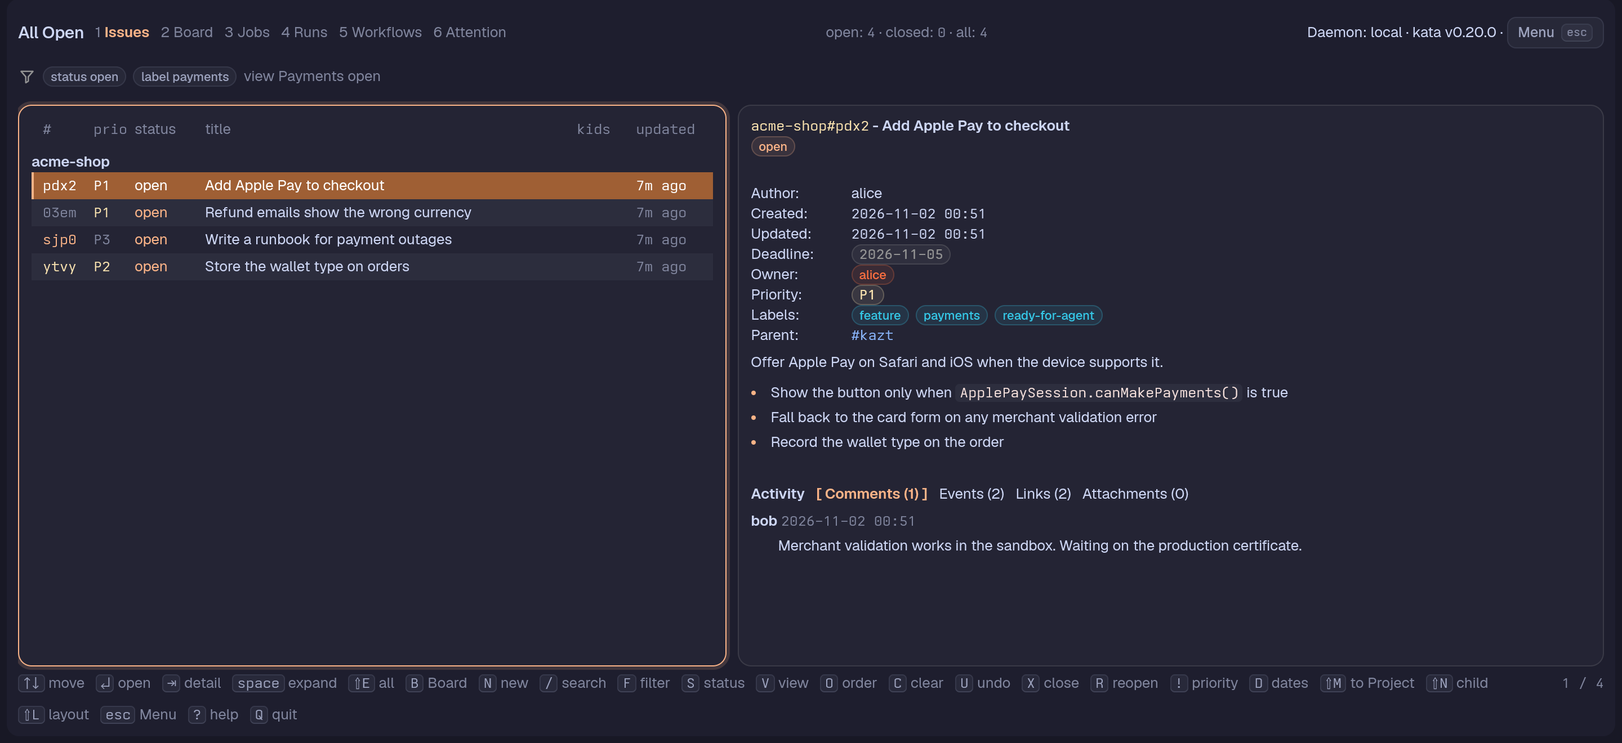
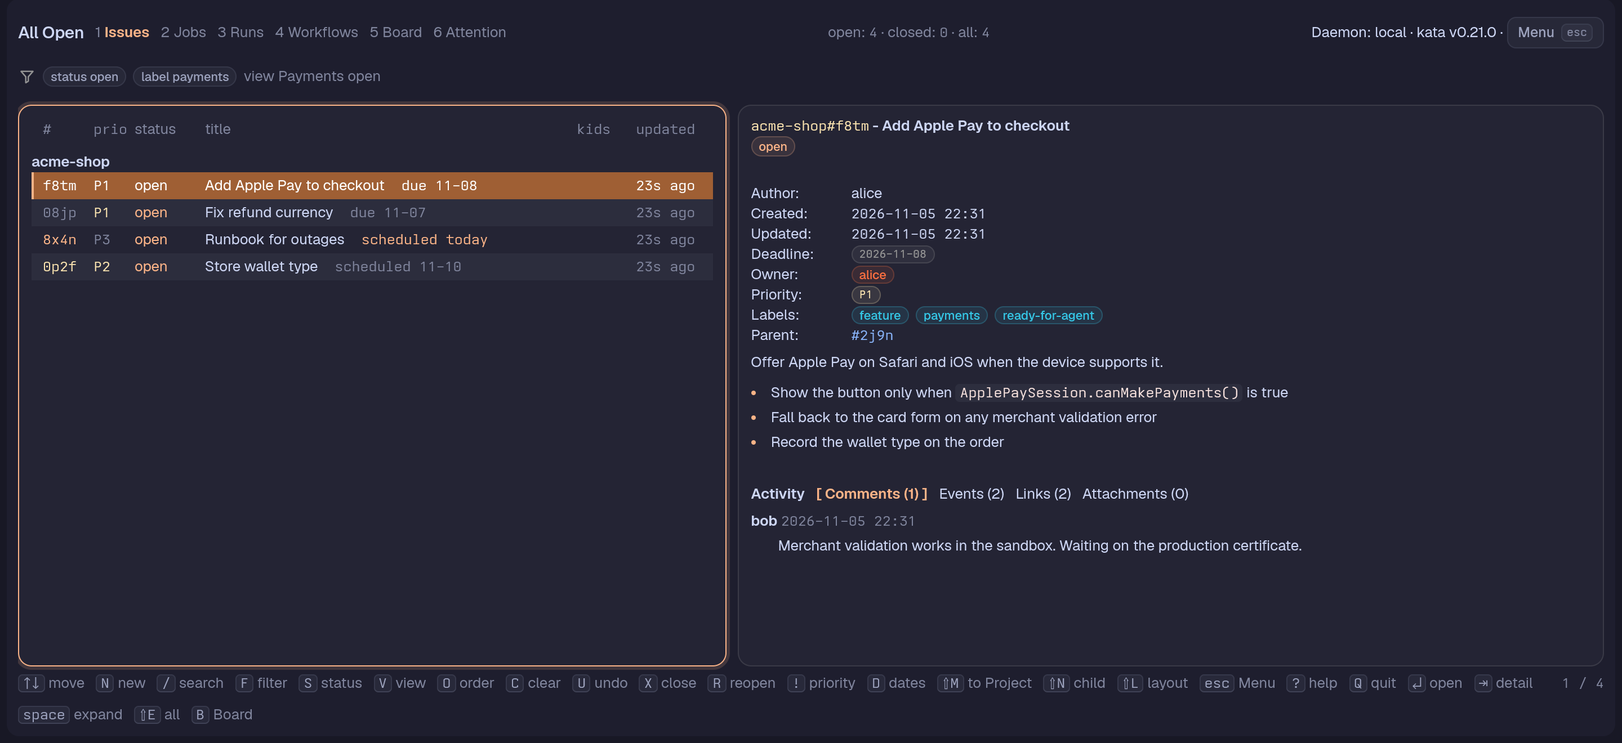
Docs for 0.8.0: screenshots re-rendered in dark-catppuccin with the new Page numbers and kata v0.21, guides and changelog brought up to date

diff --git a/internal/data/undo.go b/internal/data/undo.go
@@ -287,7 +287,7 @@ func moved(e model.UndoEntry, shown *g.ShowIssueResponseBody) string {
 		}
 	case model.UndoBody:
 		// The body text is what the undo overwrites; a write to another field moves the revision without touching it.
-		// shortcut: check-then-write, so a body edit landing between this check and the write is overwritten (kata v0.20's
+		// shortcut: check-then-write, so a body edit landing between this check and the write is overwritten (kata v0.21's
 		// edit-issue honours no If-Match); upgrade when it does.
 		if i.Body != e.After.Body {
 			return "issue body changed since the action"

diff --git a/README.md b/README.md
@@ -20,7 +20,7 @@ In tern-kata, Issue bodies render as Markdown, priorities and labels show as chi
 
 **Daemons.** `D` opens the Daemons Page, a Lettered Page (also in the Menu) that lists the daemons kata's `config.toml` names with kata tui's columns; Enter switches this Pane to one, starting a stopped local daemon first as kata tui does, and nothing is written to disk. The top bar names the current daemon and the account the daemon says you are; see [Pages and the Board](docs/guide/pages-and-board.md#lettered-pages).
 
-**Federation.** `F` opens the Federation Page, a Lettered Page (also in the Menu) that lists this daemon's spoke federations with hub, actor, push, pending, sync and badges, shows a Project's detail on Enter, reads again with `r` and leaves a federation with `x` (preview, hub revoke, result). `b` browses the Projects of the daemon catalog's hubs, and `n` enrolls a Project in a hub's federation (choose a local Project, a hub and a hub Project, preview, a typed confirmation for adopting, result; a failure after the hub granted it keeps a recovery whose `R` shows the `kata federation join …` command); see [Pages and the Board](docs/guide/pages-and-board.md#lettered-pages).
+**Federation.** `F` opens the Federation Page, a Lettered Page (also in the Menu) that lists this daemon's spoke federations with hub, actor, push, pending, sync and badges, shows a Project's detail on Enter, reads again with `r` leaves a federation with `x` (preview, hub revoke, result), and names a spoke with `N`. `b` browses the Projects of the daemon catalog's hubs, and `n` enrolls a Project in a hub's federation (choose a local Project, a hub and a hub Project, preview, a typed confirmation for adopting, result; a failure after the hub granted it keeps a recovery whose `R` shows the `kata federation join …` command); see [Pages and the Board](docs/guide/pages-and-board.md#lettered-pages).
 
 **Board.** `5` or `b` shows a Project's Issues as cards in Lanes, one per triage label. `<` and `>` move a card by swapping its label in kata, and a selected card tags its related cards; following one of another Project switches the Pane to that Project and Esc comes back. See [Pages and the Board](docs/guide/pages-and-board.md).
 
@@ -28,7 +28,7 @@ In tern-kata, Issue bodies render as Markdown, priorities and labels show as chi
 
 **Jobs and the Job card.** `2` lists a Project's Cron jobs with their state, schedule in words and next run. The Job card makes and edits every kind of job. See [Jobs](docs/guide/jobs.md).
 
-![The Jobs Page with a job selected and its inspector open](docs/images/jobs.png)
+![The Jobs Page with a job selected and its inspector open, listing its next runs](docs/images/jobs.png)
 
 ![The Job card editing an agent prompt job, with the schedule preview](docs/images/job-card.png)
 
@@ -46,15 +46,15 @@ In tern-kata, Issue bodies render as Markdown, priorities and labels show as chi
 
 **Attachments.** `@` uploads a screenshot, log or any other file to an Issue through kata, which keeps the bytes in Docbank; `enter` on one in the Attachments tab downloads it and opens it when it is an image, video, audio, PDF or text file, and agents use `kata docbank attachments`. It needs a `[docbank]` section in kata's config. See [Attachments](docs/guide/attachments.md).
 
-![The Attachments tab of "Add Apple Pay to checkout" listing a screenshot and a log](docs/images/attachments.png)
+![The Attachments tab of "Add Apple Pay to checkout" listing a screenshot and a log, each with its media type and size](docs/images/attachments.png)
 
 **Recurring Issues.** `O` opens the Recurrence card and `tern-kata recur` does the same from a shell. See [Recurring Issues](docs/guide/recur.md).
 
-**Dates card.** `d` sets an Issue's scheduled date and deadline, typed as a date, `today`, `tomorrow`, `+3d` or `+1w`. See [Dates](docs/guide/dates.md).
+**Dates card.** `d` sets an Issue's scheduled date and deadline, typed as a date, `today`, `tomorrow`, `+3d` or `+1w`, or with a time in kata's date-time forms. See [Dates](docs/guide/dates.md).
 
 ![The Dates card over the Board, with "+1w" typed in Scheduled and the date it resolves to below it](docs/images/dates-card.png)
 
-**Moving an Issue.** `M` opens the Move card on the selected Issue: pick a Project from a filtered list, preview the move (kata checks it and changes nothing), then move it, guarded on the revision the card opened with. A Notice links to the Issue in its new Project. See [Moving an Issue](docs/guide/pages-and-board.md#moving-an-issue).
+**Moving an Issue.** `M` opens the Move card on the selected Issue: pick a Project from a filtered list, preview the move (kata checks it and changes nothing), then move it, guarded on the revision the card opened with. The Issue moves with its open descendants; `o` (Only this Issue) moves it alone. A Notice links to the Issue in its new Project. See [Moving an Issue](docs/guide/pages-and-board.md#moving-an-issue).
 
 **Deleting and restoring an Issue.** `X` opens the Delete card on the selected Issue: type its `project#id` to confirm, add a reason if you like, and kata deletes it (soft: it keeps the Issue and its history). `u` right after restores it, and the Menu's "Restore a deleted Issue" brings back an earlier one by short id, `project#id` or ULID. See [Deleting and restoring an Issue](docs/guide/pages-and-board.md#deleting-and-restoring-an-issue).
 
@@ -90,7 +90,7 @@ Agents: follow these steps only when the user has asked you to install tern-kata
    In a repo with a `.kata.toml`, write kata ticket references in chat replies as `[<id>](https://kata.invalid/<project>/<id>)`, with `<project>` the name in `.kata.toml`. The tern-kata window plugin opens them in tern-kata; Tern draws `kata://` links in chat as plain text. Everywhere else (files, commit messages, kata Issue text) write the bare id; those links only work inside Tern.
    ```
 
-6. Ask the user whether to install the agent skills (`kata`, and `tern-kata` for attachments, recurrence and the worker). Run `npx skills add Dangerboi/tern-kata -g` only if they agree; it needs Node.js, and with only Bun installed `bunx` replaces `npx`.
+6. Ask the user whether to install the agent skills (`kata`, and `tern-kata` for recurring Issues, saved views and the worker). Run `npx skills add Dangerboi/tern-kata -g` only if they agree; it needs Node.js, and with only Bun installed `bunx` replaces `npx`.
 
 ## Install
 

diff --git a/CHANGELOG.md b/CHANGELOG.md
@@ -6,20 +6,20 @@ All notable changes to tern-kata are listed here. The format follows [Keep a Cha
 
 ### Added
 
-- `m` on the Attention Page sends a message to the omp agent that raised the selected request. It reaches the agent at once, through an omp extension tern-kata loads into every omp agent it starts: a waiting or idle agent starts a turn on it, a working one gets it at its next step without its work being stopped, and a pending `ask` or tool approval stays until you answer it. Each omp agent has its own Agent address, `<actor>/<name>-<block id>`, set as its `KATA_INBOX_USER`, so no other agent reads its messages; only messages from you are delivered, and the agent's first message tells it to act only on those. The card asks before replacing a message the agent has not cleared, and says why when the agent cannot receive one (exited or not omp). When an agent exits, the Pane clears what is left at its address. Agents that load the extension run with `KATA_OMP_LIVE_INBOX=0`, so kata-omp leaves live delivery to it.
+- `m` on the Attention Page sends a message to the omp agent that raised the selected request. It reaches the agent at once, through an omp extension tern-kata loads into every omp agent it starts: a waiting or idle agent starts a turn on it, a working one gets it at its next step without its work being stopped, and a pending `ask` or tool approval stays until you answer it. Each omp agent has its own Agent address, `<actor>/<name>-<block id>`, set as its `KATA_INBOX_USER`, so no other agent reads its messages; only messages from you are delivered, and the agent's first message tells it to act only on those. The card asks before replacing a message the agent has not cleared, and says why when the agent cannot receive one (exited, not omp, or started by an older tern-kata before messages could reach it). When an agent exits, the Pane clears what is left at its address. Agents that load the extension run with `KATA_OMP_LIVE_INBOX=0`, so kata-omp leaves live delivery to it.
 - `tern-kata worker status` names the installed binary's version when the running worker runs another one, and says how `tern-kata worker stop` moves it there.
 - `/` on the Jobs, Runs and Workflows Pages searches their rows by a case-insensitive part of the row's text, as kata tui does. The search shows above the list, `esc` ends it, and an empty result says so.
 - The Jobs Page inspector lists a job's next three runs with their time zone abbreviations, and says why there are none when the job is paused, its parent is closed, it only runs when started, or its runs can't be worked out.
 - Issue list rows show the Date badge of an open Issue with a scheduled date or deadline, after the title, as kata tui does; a row that can't fit its whole title and the badge drops the badge.
 - The Dates card and the Create card take kata's date-time forms, `YYYY-MM-DDTHH:MM[:SS]` and `YYYY-MM-DDTHH:MM:SSZ`; the preview shows the time.
 - `N` on the Federation Page names a spoke: on the enrollment preview it sets the name the hub records with the enrollment, and on a spoke, in the list or its detail, it renames it on the hub, where an empty name clears it. The name shows on the spoke's card and detail. The card refuses a name that breaks kata's rule in kata's words before anything reaches the hub, and shows the hub's reason when it refuses a name another spoke holds.
-- The Close card for a `done` close can cite one or more of the Issue's Attachments as evidence; the Events tab names a cited Attachment, and marks it `[removed]` once it is unlinked.
+- The Close card for a `done` close can cite one or more of the Issue's Attachments as evidence; the Events tab names a cited Attachment, and marks it `[removed]` once it is unlinked and `[changed]` when the Issue now holds another version of it.
 - `tern-kata migrate-attachments` moves the old attachments stored on this machine to Docbank, deletes the local copies, and lists the ones held on other machines. It leaves a file, an Issue folder or the store that is a symlink, and lists it with its reason, so it never uploads what a link points to.
 - A `kata close` run by an omp agent the Pane started, or by a worker run whose profile `command` is omp, names that agent's omp session, so with `[close.transcript]` enabled in kata's config the close records the session and, with `agentsview_url`, a link to it in AgentsView. Worker runs now load tern-kata's omp extension for this, also under `--no-extensions`.
 
 ### Changed
 
-- **Breaking:** tern-kata requires kata v0.21.0 or newer. kata v0.21 upgrades its database to schema 43 on first start, which older kata binaries cannot open; kata keeps a backup of the database from before the upgrade.
+- **Breaking:** tern-kata requires kata v0.21.0 or newer. kata v0.21 upgrades its database to schema 43 on first start, which older kata binaries cannot open; kata keeps a backup of the database from before the upgrade. A PostgreSQL store needs `kata storage postgres migrate` with the daemon stopped.
 - The Pages are numbered as in kata tui: `1` Issues, `2` Jobs, `3` Runs, `4` Workflows, `5` Board and `6` Attention. `b` still toggles the Board and `T` still opens Attention.
 - The Move card moves an Issue with its open descendants, as kata does. The preview names the Issues that move, the **Only this Issue** switch (`o`, or a click) moves the Issue alone, and the Notice says how many Issues moved. When kata refuses because of a descendant (archived, or held back for another reason), the card names it and keeps **Only this Issue** within reach; a subtree that changed during the move shows in words too.
 - The Comments tab shows a discussion as a reply tree: replies nest under the comment they answer, four levels deep at most, a reply from another Issue is a line under its target, and confirm and refute show as tags, reading "(before edit)" when the evidence predates an edit of the comment.

diff --git a/docs/guide/pages-and-board.md b/docs/guide/pages-and-board.md
@@ -57,7 +57,7 @@ The secret goes from kata's answer into the token file, which is created new and
 
 `x` on a token opens "Revoke token <id> (<name>, <actor>)? This cannot be undone."; `y` revokes it and `n` or `esc` keeps it. A token already revoked is not asked about. After a create or a revoke the list is read again.
 
-`D` opens the **Daemons Page**: the daemons named in kata's `config.toml` (`[[daemon]]` entries, read from `$KATA_HOME`, else `~/.kata`), under "N daemons", one row each with kata tui's columns: the daemon, its endpoint ("local" for a local entry, else the url's host), "token" or "no token", and "current" on the daemon this Pane talks to. Under the list the selected daemon's `name · endpoint`, with `· allow_insecure` when the entry sets it. `j`/`k` move the cursor, and it starts on the current daemon. Enter switches this Pane to the selected daemon and leaves the Page: the Pane starts over on it with an empty Collection, no Page, cache, filter or undo history of the old daemon ("nothing to undo: connected to a different daemon"), and follows the new daemon's events. Your workspace's Project is bound again when the new daemon has one by that name, else the Pane starts on the Inbox. A switch changes this Pane only and writes nothing to disk, so other Panes and the CLI stay where they were. A local entry whose daemon is stopped is started first, as in kata tui: `kata daemon start` with `KATA_HOME` set to the entry's `home` (a profile), or in the current home for an entry without one, started by kata's client with tern-kata's own environment, so a `KATA_DSN`, `KATA_DB` or `KATA_SERVER` set for the Pane reaches the started daemon; this is the one case in which tern-kata starts a daemon. A switch that fails shows `daemon "<name>": <reason>` and keeps the current connection. With no `[[daemon]]` entry the Page says "no named daemons" and names the file to add one to. The top bar names the current daemon by its catalog name and, when the daemon says who you are, the account: "Daemon: work · remote · kata v0.21.0 · as alice".
+`D` opens the **Daemons Page**: the daemons named in kata's `config.toml` (`[[daemon]]` entries, read from `$KATA_HOME`, else `~/.kata`), under "N daemons", one row each with kata tui's columns: the daemon, its endpoint ("local" for a local entry, else the url's host), "token" or "no token", and "current" on the daemon this Pane talks to. Under the list the selected daemon's `name · endpoint`, with `· allow_insecure` when the entry sets it. `j`/`k` move the cursor, and it starts on the current daemon. Enter switches this Pane to the selected daemon and leaves the Page: the Pane starts over on it with an empty Collection, no Page, cache, filter or undo history of the old daemon ("nothing to undo: connected to a different daemon"), and follows the new daemon's events. Your workspace's Project is bound again when the new daemon has one by that name, else the Pane starts on the Inbox. A switch changes this Pane only and writes nothing to disk, so other Panes and the CLI stay where they were. A local entry whose daemon is stopped is started first, as in kata tui: kata's client runs `kata --daemon <name> daemon recover` for an entry with a `home` (a profile; it never creates storage), and `kata daemon start` for any other local entry, with the Pane's own environment, so a `KATA_DSN`, `KATA_DB` or `KATA_SERVER` set for the Pane reaches the started daemon; with no `kata` on `PATH` the stopped daemon is reported, not started, and a remote entry is never started; this is the one case in which tern-kata starts a daemon. A switch that fails shows `daemon "<name>": <reason>` and keeps the current connection. With no `[[daemon]]` entry the Page says "no named daemons" and names the file to add one to. The top bar names the current daemon by its catalog name and, when the daemon says who you are, the account: "Daemon: work · remote · kata v0.21.0 · as alice".
 
 `F` opens the **Federation Page**: this daemon's spoke federations, the Projects that replicate a Project on a hub. A header reads "Federation for active daemon: <name> <endpoint> instance <uid> auth <auth>", then "N spoke federations" and one card per Project in two lines: the Project (with "Name <spoke name>" after it when the hub gives this daemon a name), its hub host and actor, then push ("push" or "off"), pending pushes, last sync ("never", "error", or "5m ago") and badges (`insecure`, `quarantine`, `reset`, `violations`, or "-"). Under the list the selected Project's `hub <URL>/project <id> · actor <actor> · credential <status>`. `j`/`k` move the cursor and Enter shows the Project's detail: the spoke name ("-" when there is none), hub URL, hub Project id and uid, actor, capabilities (`pull`, `push`, `lease`), push enabled, credential, `allow_insecure`, the pull and push cursors, pending push and its high water, pending and live claims, each quarantine, the reset blocker, claim violations, and the last pull, push and sync success and last error in UTC. Esc or backspace leaves the detail, then the Page; `r` reads the status again from the list or a detail. It shows "loading federation status...", "no spoke federation enrollments" and "failed to load federation: <error>" in kata tui's words, a failed read replacing the list until the next read.
 

diff --git a/docs/guide/attachments.md b/docs/guide/attachments.md
@@ -2,14 +2,14 @@
 
 Attach a screenshot, log or any other file to an Issue so whoever picks it up sees what you saw. kata stores the file: its bytes go to Docbank and the Issue keeps a reference to them, so every agent and person who can read the Issue can download the file, from any machine.
 
-![The Attachments tab of "Add Apple Pay to checkout" listing a screenshot and a log](../images/attachments.png)
+![The Attachments tab of "Add Apple Pay to checkout" listing a screenshot and a log, each with its media type and size](../images/attachments.png)
 
 This needs kata v0.21 and a daemon with Docbank configured (see [Setting Docbank up](#setting-docbank-up)). Without it the Pane says so plainly and nothing can be attached.
 
 ## In a Pane
 
 - `@` on the selected Issue (in the list, on the Board, in the Lane view or in the Issue detail) asks for a path, quoted, starting with `~` or relative to the directory, and uploads the file under its own name. A refusal or a failure shows in the form. A file may be up to 256 MiB.
-- `U` lists the Issue's Attachments by name: `down` and `up` move and `enter` unlinks the one chosen, with no further confirmation. Unlinking removes the Issue's reference only; the bytes stay in Docbank, because kata has no call that deletes them. Two Attachments with one name show with the last characters of their ids to tell them apart. `U` on an Issue with none says so.
+- `U` lists the Issue's Attachments by name: `down` and `up` move and `enter` unlinks the one chosen, with no further confirmation. You can also type an attachment's name in full. Unlinking removes the Issue's reference only; the bytes stay in Docbank, because kata has no call that deletes them. Two Attachments with one name show with the last characters of their ids to tell them apart. `U` on an Issue with none says so.
 - The Attachments tab of the Issue detail lists the Issue's Attachments with their name, media type and size. `enter` on one downloads it into a cache folder and, if it is an image, video, audio, PDF or text file by its name, opens it with the program your OS has for that type; the next `enter` reuses the download. tern-kata opens images (`.png`, `.jpg`, `.jpeg`, `.gif`, `.webp`, `.bmp`, `.heic`, `.tif`, `.tiff`), video (`.mp4`, `.mov`, `.webm`, `.mkv`, `.avi`, `.m4v`), audio (`.mp3`, `.wav`, `.ogg`, `.flac`, `.m4a`), `.pdf` and plain text (`.txt`, `.md`, `.log`, `.csv`, `.json`), in any letter case, judged by the name exactly as stored: `report.bat.` or `x.png ` do not count. Any other file is only saved, never opened, because what the OS does with a file it knows (run it, follow a link inside it) cannot be told from its name and anyone who can write the Project can name an Attachment `report.bat`. The Pane then says where it is saved and that tern-kata opens only images, video, audio, PDFs and text: "Cannot open report.bat: saved at <path> and not opened: tern-kata opens only images, video, audio, PDFs and text". Open such a file yourself if you trust it. The download never gets an execute permission.
 
 ## Citing an attachment when closing
@@ -82,7 +82,9 @@ The command prints what moved, and lists what it left with the reason:
 
 - a key whose `host` is another machine: run the command there;
 - a file that is gone from this machine;
-- a file outside the Issue's folder in `.kata-attachments`, which is never deleted: add it with `kata docbank attachments add` and clear the key yourself (`kata meta unset <ref> <key>`, with `<key>` the key the list names);
+- a file outside the Issue's folder in `.kata-attachments`, which is never deleted: add it with `kata docbank attachments add` and clear the key yourself (`kata meta unset <ref> <key>`, with `<key>` the key the list names). A file, Issue folder or store folder that is a symlink counts as outside, so the link's target is never uploaded, with the reason "outside this Project's old attachment folder";
+- a `tern-kata.attachment.*` key whose value is not a `{host, path}` pointer, so it is not an old attachment;
+- a file refused before upload, for its size or type, with the reason shown. The command then exits non-zero;
 - an upload or key change that failed, with kata's reason. The command then exits non-zero;
 - a file moved whose local copy could not be deleted: the key is already cleared, so delete the file by hand. The command then exits non-zero.
 

diff --git a/docs/guide/kata-tui.md b/docs/guide/kata-tui.md
@@ -76,7 +76,7 @@ The Close card for a `done` close can cite one or more of the Issue's Attachment
 
 `u` in the list, on the Board, in the Lane view and in the Issue detail takes back the newest change this Pane made, as in kata tui. The Pane remembers the last 20 completed changes, across Issues, and undoes the newest first. It undoes a close (reopens), a reopen (closes as done, opening the Close card first when kata requires evidence), an owner or priority change, a label added or removed, a body edit, a link added (the link is removed, found by type and its two ends), a Lane Move (its label changes reversed), a Dates card change (both dates put back, each guarded on the value the change wrote) and a delete (the Issue is restored; "already restored" when kata no longer holds it as deleted).
 
-Before it writes, `u` checks, with kata tui's words, that it is still the same daemon and account ("daemon instance changed", "daemon principal changed"), the same Issue ("issue identity changed") and that nobody changed the Issue since: the revision the change produced for owner, priority and link ("issue owner changed since the action" and the like), the body text the change wrote for a body edit ("issue body changed since the action"; kata v0.20 takes no revision precondition on an edit, so a body edit landing in the instant between this check and the write is overwritten), the label state for a label added or removed (a label someone else changed reads "already restored"), the dates the change wrote for a Dates card change ("issue dates changed since the action"). A refusal drops that change and says so; the one after it can still be undone. An Issue already as the undo would leave it reads "already restored". A second `u` while one is out says "undo already in progress".
+Before it writes, `u` checks, with kata tui's words, that it is still the same daemon and account ("daemon instance changed", "daemon principal changed"), the same Issue ("issue identity changed") and that nobody changed the Issue since: the revision the change produced for owner, priority and link ("issue owner changed since the action" and the like), the body text the change wrote for a body edit ("issue body changed since the action"; kata v0.21 takes no revision precondition on an edit, so a body edit landing in the instant between this check and the write is overwritten), the label state for a label added or removed (a label someone else changed reads "already restored"), the dates the change wrote for a Dates card change ("issue dates changed since the action"). A refusal drops that change and says so; the one after it can still be undone. An Issue already as the undo would leave it reads "already restored". A second `u` while one is out says "undo already in progress".
 
 Every other change to an Issue clears the history, and the next `u` says "nothing to undo: <reason>": creating an Issue, a comment or Reply, a timed assignment, a Recurrence change or stop, attaching or unlinking a file, and every Cron job or Workflow change. A change whose outcome is unknown (a timeout) clears it too. `u` never undoes an older change across one of these.
 

diff --git a/docs/guide/worker.md b/docs/guide/worker.md
@@ -104,7 +104,7 @@ capacity  = 3
 checkouts = ["acme-infra"]
 ```
 
-Each `[[projects]]` block lists its own checkout only, so a job in `acme-shop` cannot name the `acme-infra` directory. Every key is described in the [worker reference](worker-reference.md#workertoml).
+Each `[[projects]]` block lists its own checkout only, so a job in `acme-shop` cannot name the `acme-infra` directory. A profile without an `extensions` key runs omp with `--no-extensions`; see the [`extensions` row of the worker reference](worker-reference.md#workertoml). Every key is described there too.
 
 ## Restarting and stopping
 
@@ -124,7 +124,7 @@ The host half doesn't read the config folder itself: while no worker of its own 
 - **Restarts.** It starts the worker again whenever it exits, after 1 second, then 2, 4 and so on up to a minute between tries. A worker that stayed up for a minute starts the count over.
 - **When it starts.** When Tern's daemon starts, which a window does on demand and Tern's "Start at login" setting does at login. Nothing starts the daemon at boot or after a quit by itself: with Tern not running, no worker runs.
 - **Finding the program.** The host half finds `tern-kata` on the daemon's `PATH` or in the folder the install scripts use (`~/.local/bin`, `%LOCALAPPDATA%\Programs\tern-kata`, `$TERN_KATA_INSTALL_DIR`). It gives the worker the daemon's `PATH` plus those folders, Tern's bundled omp, `~/go/bin` and Homebrew's, so `omp` resolves even when Tern was started from a launcher with a short `PATH`.
-- **Logs.** Its log lines (`tern-kata: worker started`, `the worker exited with status ...`) are in Tern's daemon log. `tern-kata worker status` says whether Tern supervises the worker or you started it by hand, and names the installed binary's version when the worker runs another one.
+- **Logs.** Its log lines (`tern-kata: worker started`, `the worker exited with status ...`) are in Tern's daemon log. `tern-kata worker status` says whether Tern supervises the worker or you started it by hand, and names the installed binary's version when the worker runs another one; for a supervised worker it adds that `tern-kata worker stop` moves it to the installed version.
 
 A worker the host half did not start is left running, and the host half starts one within 10 seconds of its end. This happens after a plugin reload (`tern plugin reload`, an install or update of the plugin, any change in a checkout linked with `tern plugin link`) or a Tern update loads the host half again while the worker runs on, after a daemon restart (Tern does not stop its children), and with a worker you started by hand. The host half logs one line naming that worker (`tern-kata: worker 1234 (tern-kata v0.7.2, started by Tern) is already running, so the plugin starts none until it exits`) and starts none of its own while it runs.
 

diff --git a/docs/guide/agents.md b/docs/guide/agents.md
@@ -35,7 +35,7 @@ An unknown key, a relative `checkout` or an empty `command` refuses the start an
 
 ### How the agent runs
 
-The agent always runs through `tern-kata agent [--as <actor>] [--address-prefix <actor>/<name>] --ref <qualified ref> --`. The wrapper:
+The agent always runs through `tern-kata agent [--as <actor>] [--address-prefix <actor>/<name>] --ref <qualified ref> --`. For a daemon other than the default one, the Pane also passes the route flags it needs to reach that daemon: `--home`, `--db`, `--schema`, `--dsn-file`, `--env-file`, `--daemon`, `--server`, `--token-file`, `--auth-file`, `--allow-insecure` and `--trust-private-network`, each only when it has a value. No flag holds a secret: a token or DSN goes through a private file the wrapper reads and deletes. The wrapper:
 
 - sets `KATA_REF` to the Issue, so kata-plugin's todo plan hangs under it, and drops an inherited `KATA_REF` and `KATA_INBOX_USER` (your own inbox is not the agent's);
 - sets `KATA_AUTHOR` when there is an `actor`, and otherwise leaves `KATA_AUTHOR` as inherited;

diff --git a/docs/guide/runs.md b/docs/guide/runs.md
@@ -26,7 +26,7 @@ Each card has:
 | `i` | Open the run's Issue on the Issues Page, from the list or the detail (a run with no Issue leaves a Notice) |
 | `f` | Narrow the list to the selected run's job, or show every run again |
 | `m` | Read the next older 100 runs |
-| `/` | Search the loaded runs: type to keep the runs whose status, name, Issue, executor, start, reason or summary holds the text (case-insensitive); Enter keeps the search and returns to the list, Esc ends it and brings every run back. An empty result says so under the search |
+| `/` | Search the loaded runs: type to keep the runs whose status, name, Issue, executor, start, duration, reason, hold or summary holds the text (case-insensitive); Enter keeps the search and returns to the list, Esc ends it and brings every run back. An empty result says so under the search |
 | `ctrl+r` | Read the newest page again |
 | `o` | Open the omp session of a finished or held run of this machine in a new Tern tab |
 | `u` | Resume the selected held run through the worker |

diff --git a/docs/guide/faq.md b/docs/guide/faq.md
@@ -18,6 +18,10 @@ Inbox beside the Menu sidebar. A directory is bound to a Project when it, or a p
 
 Those Pages act on the Pane's Project: the current Project Collection, else the workspace's Binding. With neither, the Page says so and opens the Menu's Projects list. See [The Page bar](pages-and-board.md#the-page-bar).
 
+### The Pane says a Project "is not set up on this daemon". What now?
+
+The folder is bound by its `.kata.toml` to a Project the daemon doesn't know. The message names that Project, or the alias kata matched (`Alias "…"`), and adds kata's hint. Follow the hint, or switch to the daemon that holds the Project on the Daemons Page (`D`).
+
 ### Why did moving a card change a label in kata?
 
 A Lane is one kata label, so `<` and `>` swap labels. Moving into No lane removes the Lane labels and keeps every other label, and a Move never enters or leaves Done. See [Moving around and moving cards](pages-and-board.md#moving-around-and-moving-cards).

diff --git a/docs/guide/jobs.md b/docs/guide/jobs.md
@@ -4,7 +4,7 @@
 
 ## Jobs Page
 
-![The Jobs Page with a job selected and its inspector open](../images/jobs.png)
+![The Jobs Page with a job selected and its inspector open, listing its next runs](../images/jobs.png)
 
 One card per job. A card shows:
 
@@ -15,7 +15,7 @@ One card per job. A card shows:
 - the agent profile;
 - the next run in the Pane calendar's zone.
 
-A schedule that can't be read, or a next run that can't be worked out (a job that isn't running, a manual or Issue-date trigger, an interval of a job a worker runs), is left off the card.
+A schedule that can't be read, or a next run that can't be worked out, is left off the card: a job that isn't running, a manual or Issue-date trigger, a once trigger in the past, or an interval of a recurring-child job whose parent has no delivery anchor yet. An interval of a job a worker runs does show, counted from the job's creation.
 
 ### Keys
 

diff --git a/docs/guide/recur.md b/docs/guide/recur.md
@@ -25,6 +25,8 @@ tern-kata recur <ref> --stop                                  # existing Occurre
 | `--rule 'RRULE'` | A raw RRULE instead of the frequency flags |
 | `--stop` | Stop the recurrence; existing Occurrences stay |
 
+A value that starts with `--` must be written `--flag=value`; written apart, it reads as the next flag and the command says the flag requires a value.
+
 ## Behaviour
 
 - `<ref>` is anything `kata show` takes: a short id in this directory's Project, `<project>#<short id>` or a ULID. `--as <actor>` names the actor; without it the actor is `$KATA_AUTHOR`, `$USER`, then `git config user.name`. An explicitly empty value (`--as=` or `--as ""`) is refused with "--as must be non-empty" and nothing is written, so a script that expands an unset variable into `--as` never acts as someone else. The Issue's Project must be the one this directory is bound to.
